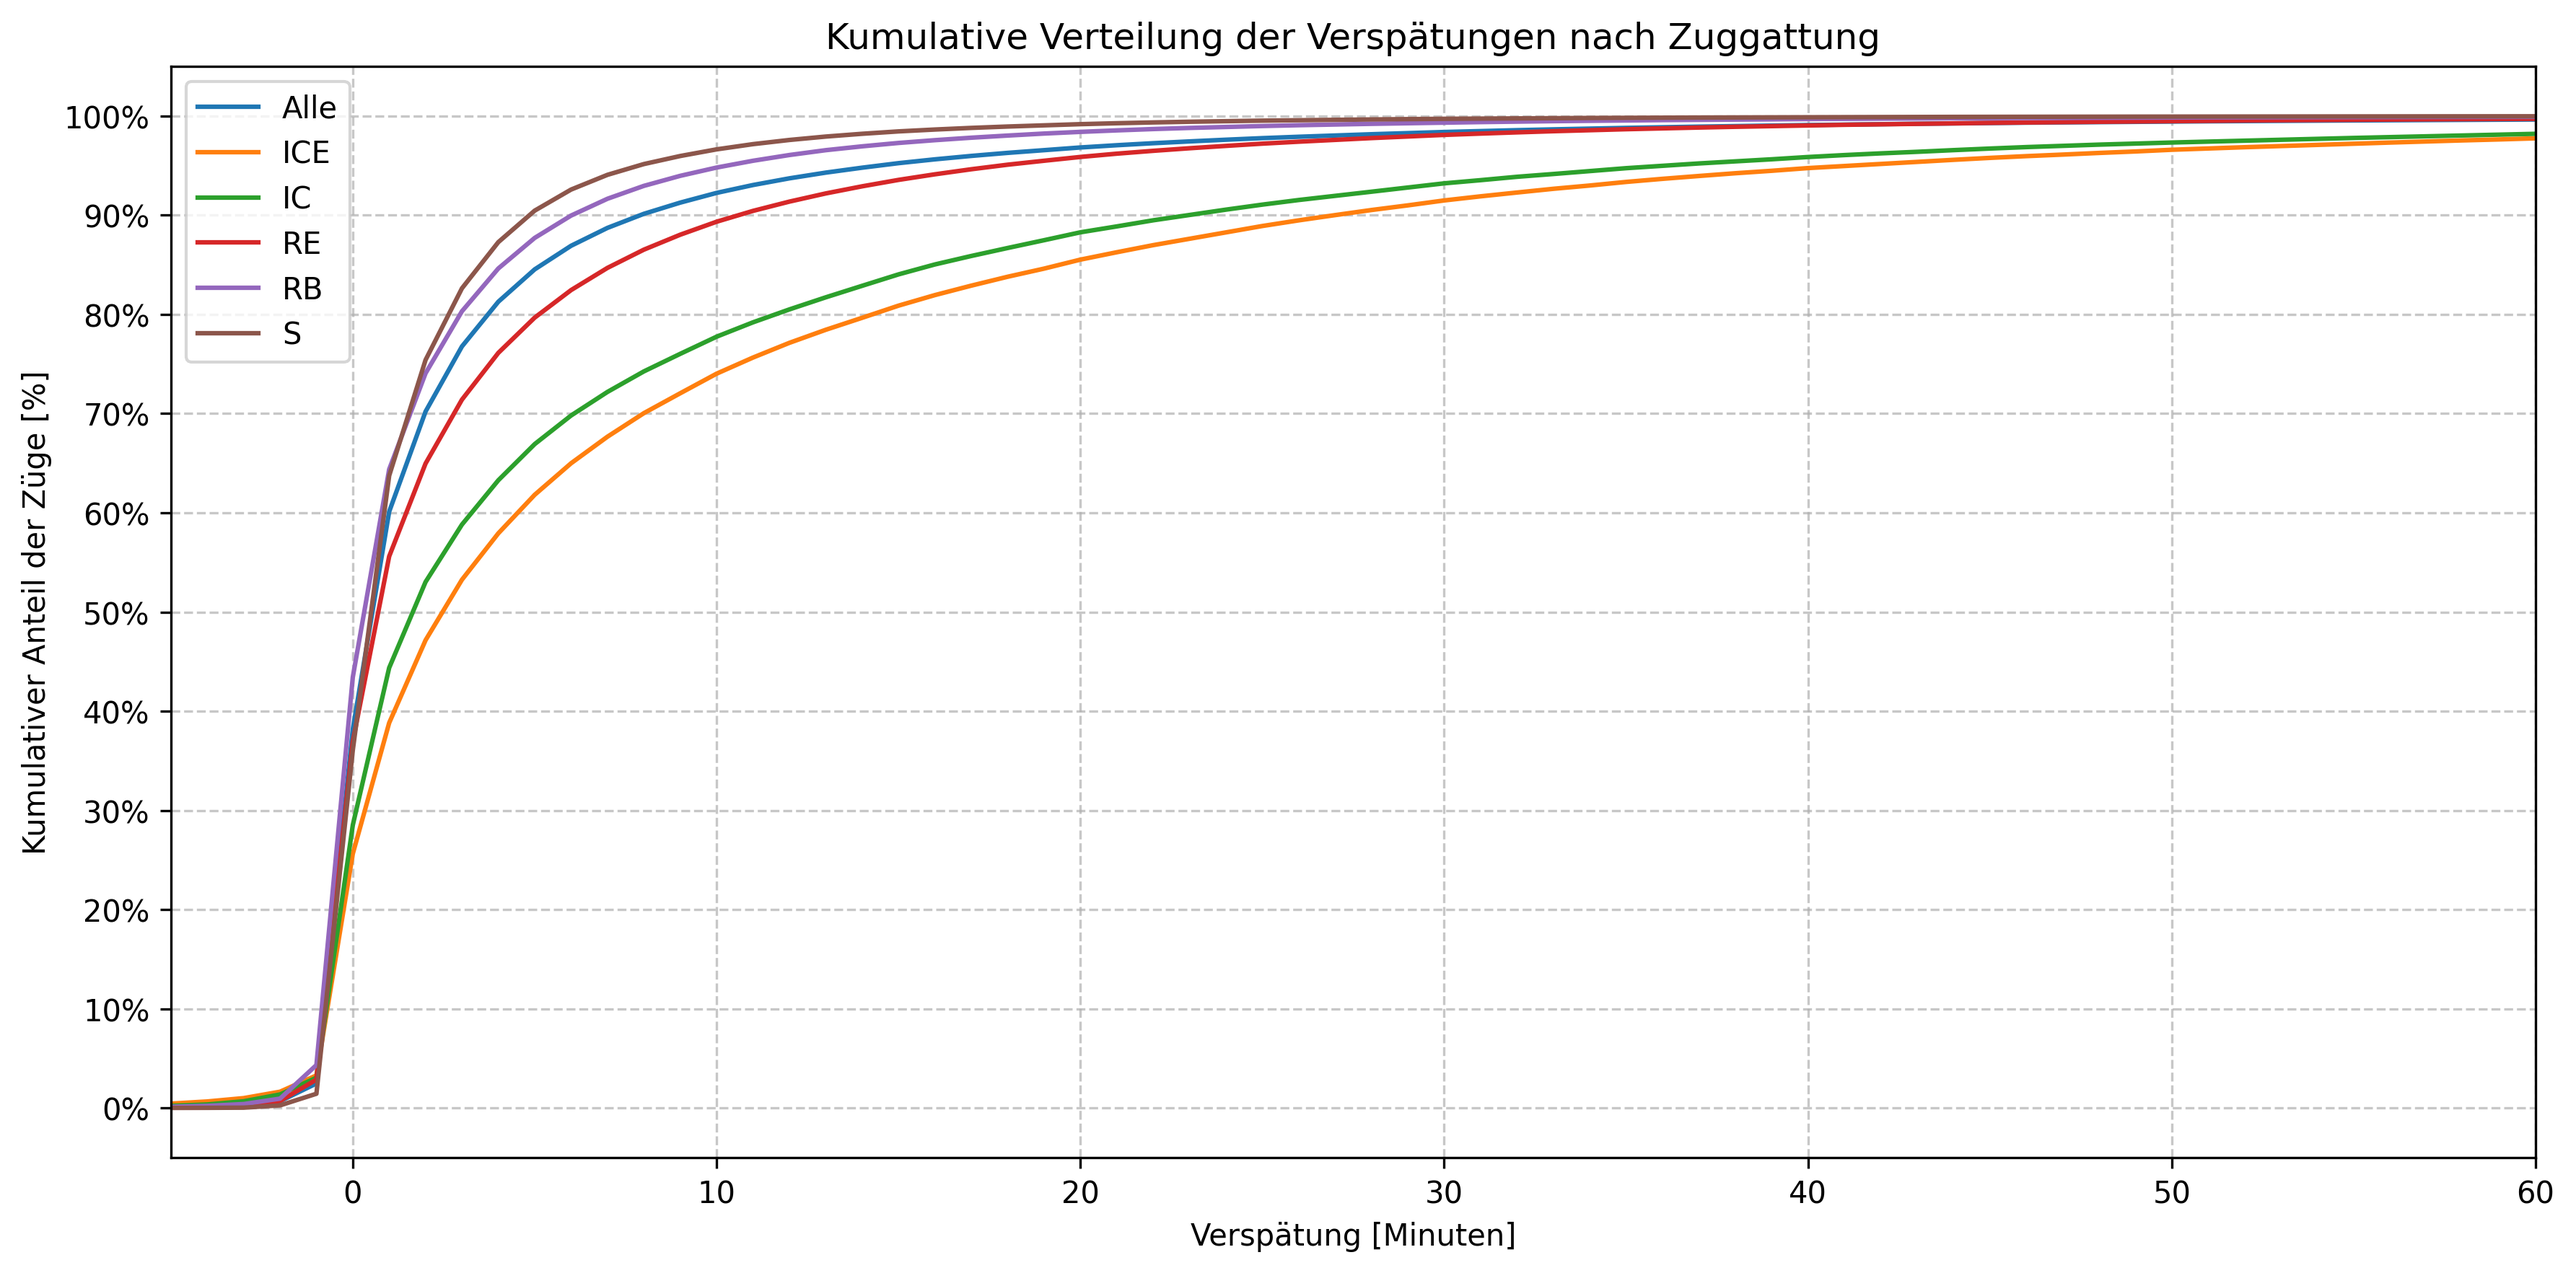
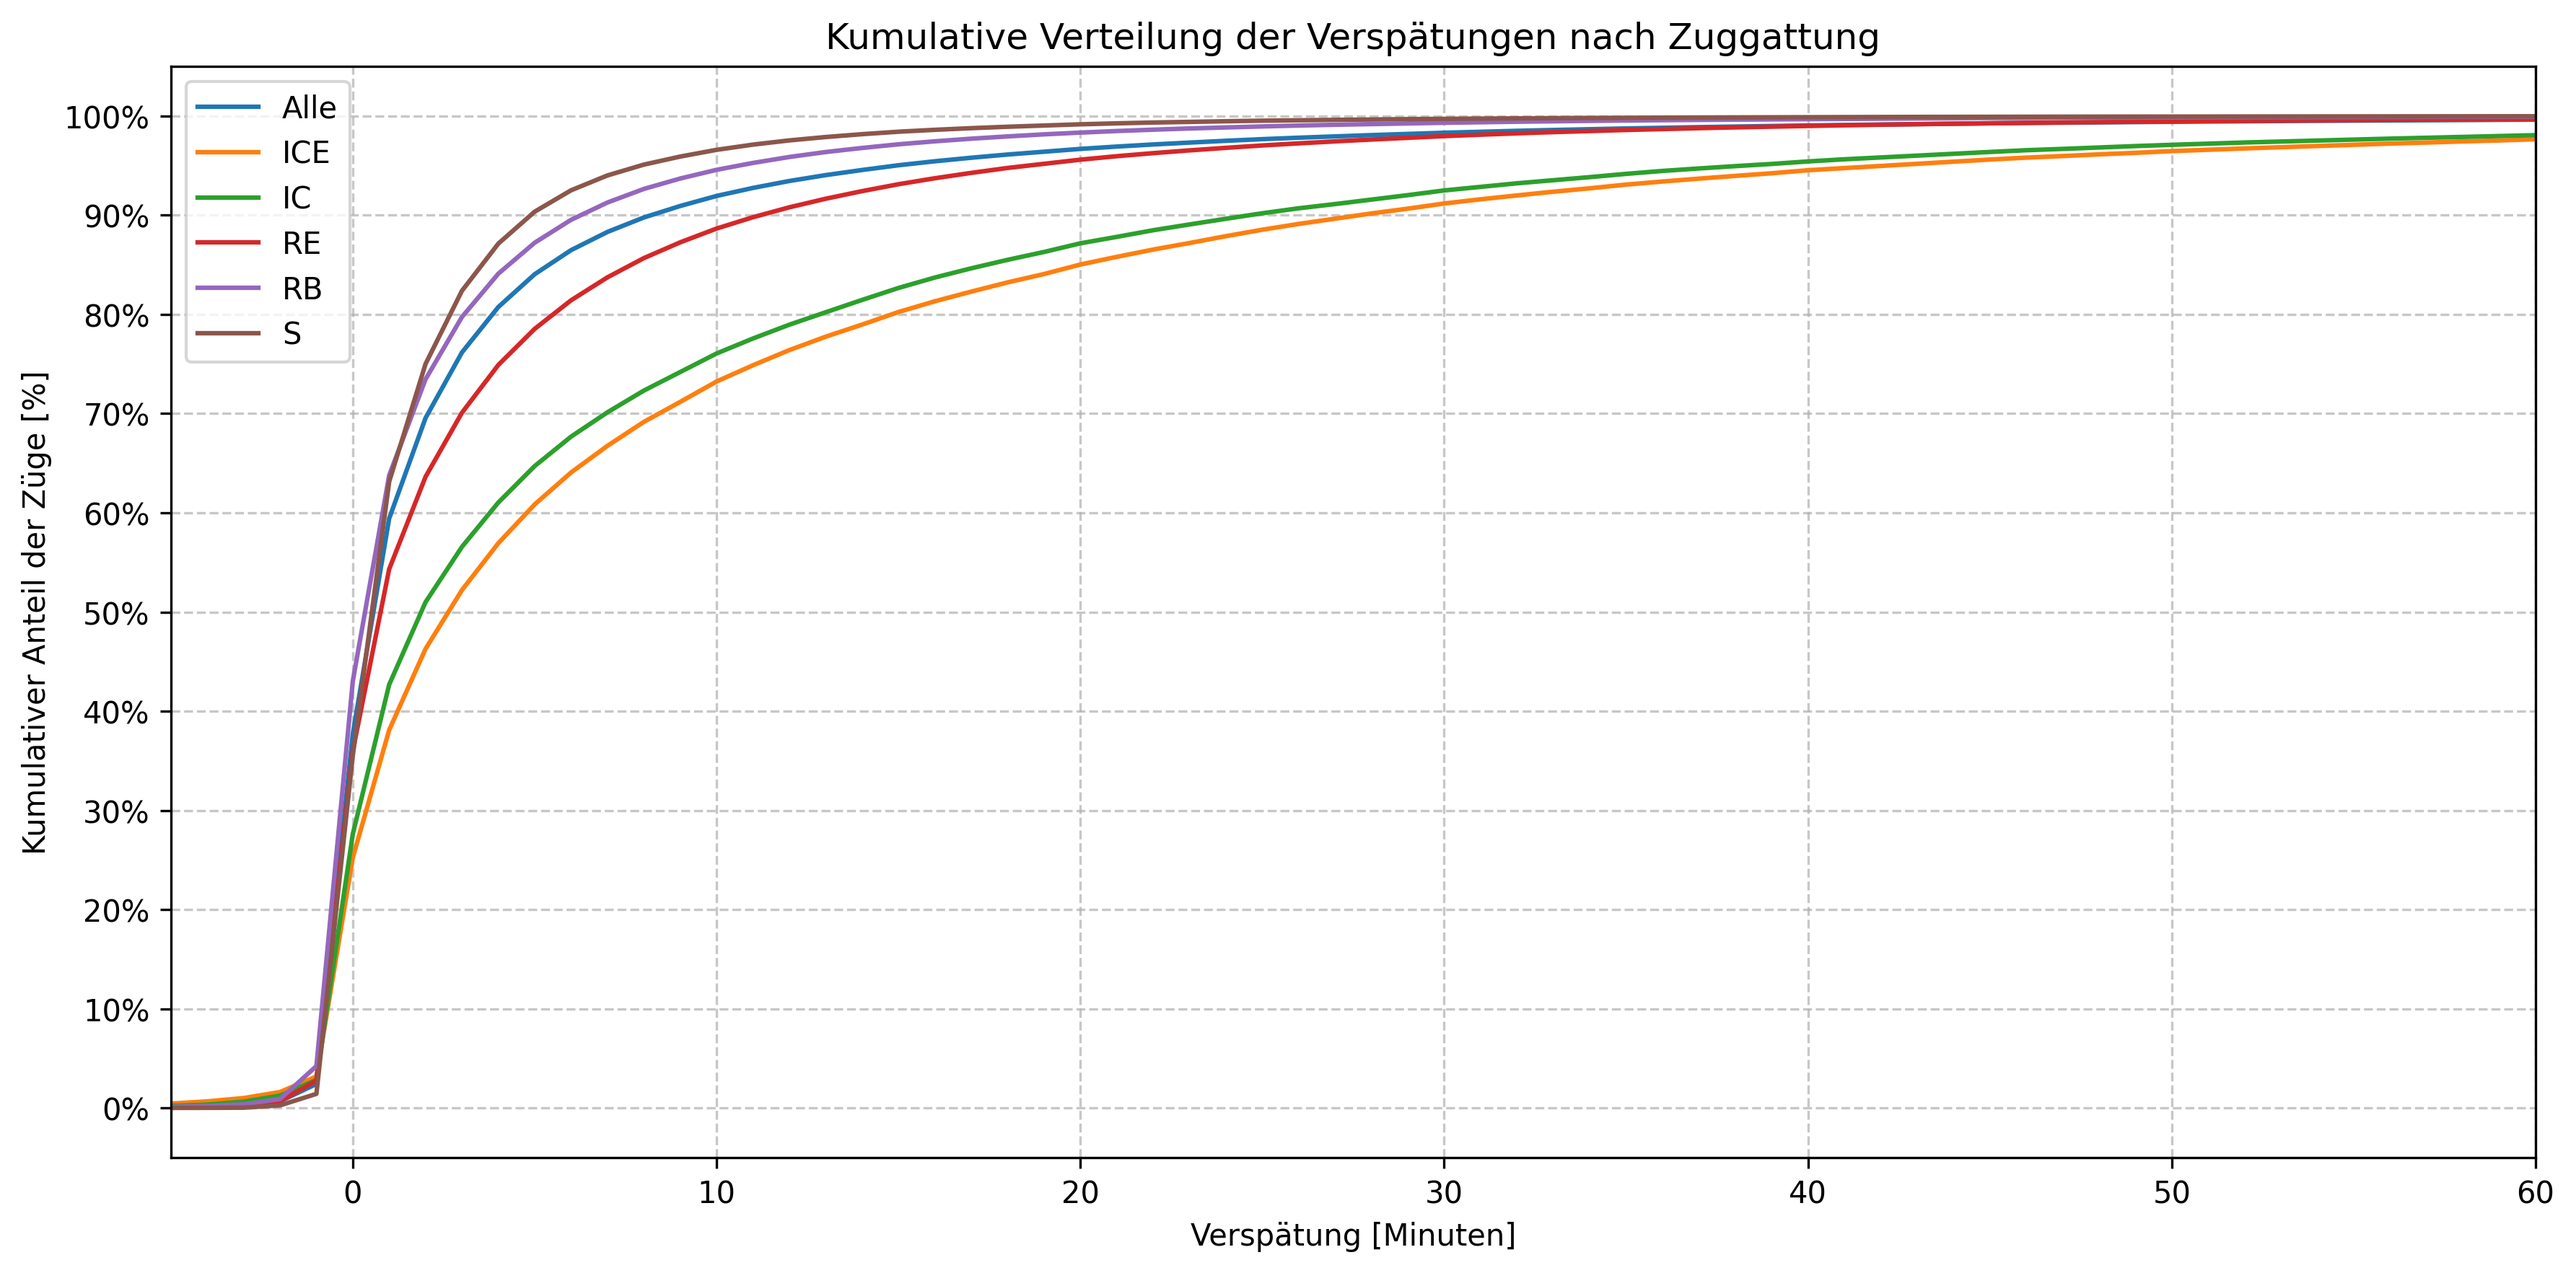
Updated images

Changed region(s): [[0.1244, 0.0935, 0.995, 0.6856], [0.0933, 0.8414, 0.1244, 0.8725]]

diff --git a/src/streamlit/calculations/overview.py b/src/streamlit/calculations/overview.py
@@ -27,7 +27,7 @@ def compute_all():
     # Read parquet files
     data_dir = Path(data_dir)
     print(f"Reading data from {data_dir}")
-    files = sorted(data_dir.glob("*.parquet"))[-4:]
+    files = sorted(data_dir.glob("*.parquet"))
     df_list = [pd.read_parquet(fp)[["delay_in_min", "station", "is_canceled", "train_type"]] for fp in files]
     df = pd.concat(df_list, ignore_index=True)
 
